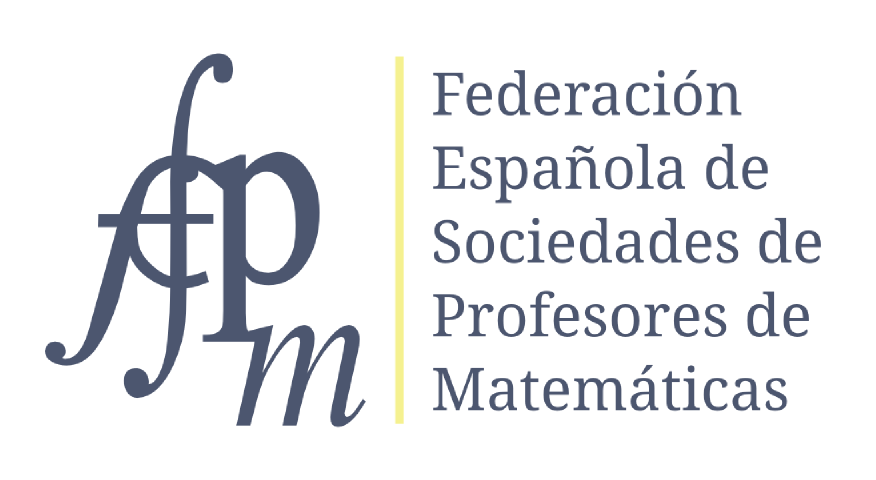
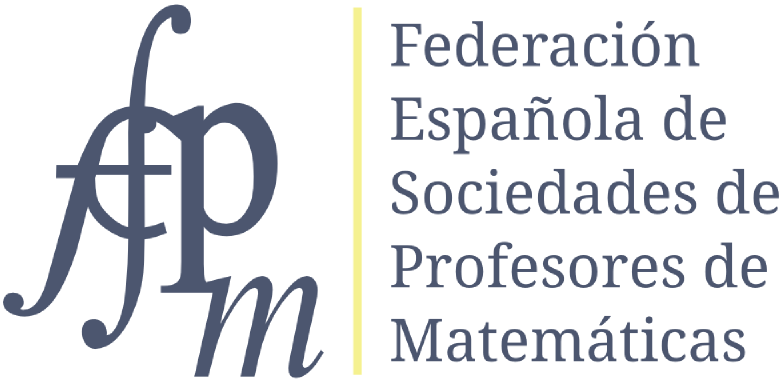
Alguns canvis a pdf pagament

diff --git a/contacts/templates/contacts/base_pdf.html b/contacts/templates/contacts/base_pdf.html
@@ -53,12 +53,13 @@
         </td>
         </tr>
         <tr>
-        <td class="center">&nbsp;&nbsp;&nbsp;<img src="contactes/img/logoxeix177x124_300ppp.png" height="124" width="177" title="FESPM" alt="Logo FESPM" /></td>
-        <td>&nbsp;</td>
-        <td class="center"><img src="contactes/img/fespm_263x144_300ppp.png" height="144" width="263" title="FESPM" alt="Logo FESPM" />&nbsp;&nbsp;&nbsp;&nbsp;&nbsp;&nbsp;</td>
+
+        <td class="center" colspan=3><img src="contactes/img/logos_539x112_300ppp.png" height="125" title="SBM-XEIX i FESPM" alt="Logo SBM-XEIX i Logo FESPM" /></td>
         </tr>      
     </table>
-    <table border="0" width="85%" ><tr><td><font size="114.5px">&nbsp;</font></td></tr><table>
+    <table border="0" width="85%" ><tr><td><font size="113.5px">&nbsp;</font></td></tr><table>
 
+    {% block footer_img %}
     <img src="contactes/img/peu744x95_300ppp.png"  height="115" width="900" title="XVI JAEM" alt="Logo JAEM" />
+    {% endblock footer_img %}
 </html>

diff --git a/contacts/templates/contacts/person/justificant_pagament_es.pdf.html b/contacts/templates/contacts/person/justificant_pagament_es.pdf.html
@@ -1,5 +1,6 @@
 {% extends "contacts/base_pdf.html" %}
 {% load i18n %}
+{% get_current_language as LANGUAGE_CODE2 %}
 
 {% block title %}Justificante de pago{% endblock %}
 
@@ -15,7 +16,7 @@ Hemos recibido de <b>{{ object.first_name }} {{ object.last_name }}</b>, con DNI
 </p>
 <br/>
 <p>
-<i>Palma, a {% now "d" %} de {% now "M" %} de {% now "Y" %}</i>
+<i>Palma, a {{ avui }}</i>
 </p>
 
 <table border="0" width="100%" align="center"> 
@@ -28,4 +29,8 @@ Hemos recibido de <b>{{ object.first_name }} {{ object.last_name }}</b>, con DNI
 	</tr>
 </table>
 
+{% endblock %}
+
+{% block footer_img %}
+    <img src="contactes/img/pie744x95_300ppp.png"  height="115" width="900" title="XVI JAEM" alt="Logo JAEM" />
 {% endblock %}

diff --git a/contacts/templates/contacts/person/justificant_pagament_ca.pdf.html b/contacts/templates/contacts/person/justificant_pagament_ca.pdf.html
@@ -15,7 +15,7 @@ Hem rebut de <b>{{ object.first_name }} {{ object.last_name }}</b>, amb DNI <b>{
 </p>
 <br/>
 <p>
-<i>Palma, a {% now "d" %} de {% now "M" %} de {% now "Y" %}</i>
+<i>Palma, a {{ avui }}</i>
 </p>
 
 <table border="0" width="100%" align="center"> 
@@ -29,3 +29,8 @@ Hem rebut de <b>{{ object.first_name }} {{ object.last_name }}</b>, amb DNI <b>{
 </table>
 
 {% endblock %}
+
+{% block footer_img %}
+    <img src="contactes/img/peu744x95_300ppp.png"  height="115" width="900" title="XVI JAEM" alt="Logo JAEM" />
+{% endblock %}
+

diff --git a/contacts/views/reporting.py b/contacts/views/reporting.py
@@ -23,6 +23,9 @@ from xhtml2pdf import pisa
 
 from contacts.functions.mailtemplate import sendTemplateMail
 
+from django.utils import translation
+from django.template.defaultfilters import date as _date
+
 '''def fetch_resources(uri, rel):
     """
     Callback to allow xhtml2pdf/reportlab to retrieve Images,Stylesheets, etc.
@@ -69,8 +72,21 @@ def justificantPagament(request, slug,template='contacts/person/justificant_paga
     except Person.DoesNotExist:
         raise Http404
     
+    # avui = datetime.today().strftime('%d de %B de %Y')
+    avui = _date(datetime.now(), "d \d\e F \d\e Y")
+    
+    
+    if person.lang == '1':
+        cur_language = translation.get_language()
+        try:
+            translation.activate('es')
+            avui = _date(datetime.now(), "d \d\e F \d\e Y")
+        finally:
+            translation.activate(cur_language)
+        
     kwvars = {
         'object': person,
+        'avui': avui
     }
     
     # revisam si la template ha de ser en catala

diff --git a/contacts/templatetags/contacts_tags.py b/contacts/templatetags/contacts_tags.py
@@ -3,6 +3,7 @@ from django import template
 from django.template.defaultfilters import stringfilter
 
 from contacts.models import STATUS_CHOICES
+from django.utils import translation
 
 register = template.Library()
 
@@ -10,3 +11,15 @@ register = template.Library()
 @stringfilter
 def status_display(value):    
     return dict(STATUS_CHOICES)[value]
+    
+    
+@register.filter
+@stringfilter
+def date_display_es(value):        
+    cur_language = translation.get_language()
+    try:
+        translation.activate('es')
+        text = translation.ugettext(value)
+    finally:
+        translation.activate(cur_language)
+    return text

diff --git a/settings.py b/settings.py
@@ -40,6 +40,12 @@ TIME_ZONE = 'Europe/Madrid'
 # http://www.i18nguy.com/unicode/language-identifiers.html
 LANGUAGE_CODE = 'ca'
 
+LANGUAGES = (
+  ('ca', 'Catalan'),
+  ('en', 'English'),
+  ('es', 'Spanish'),
+)
+
 SITE_ID = 1
 
 # If you set this to False, Django will make some optimizations so as not
